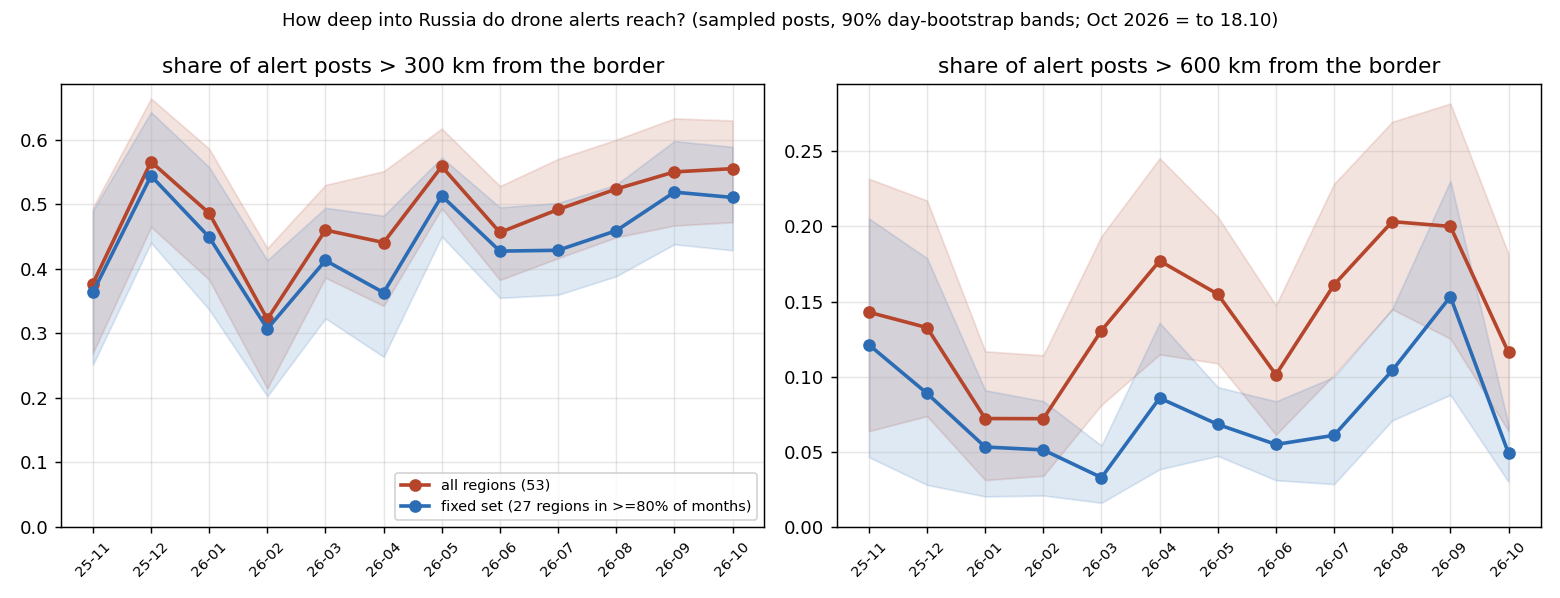
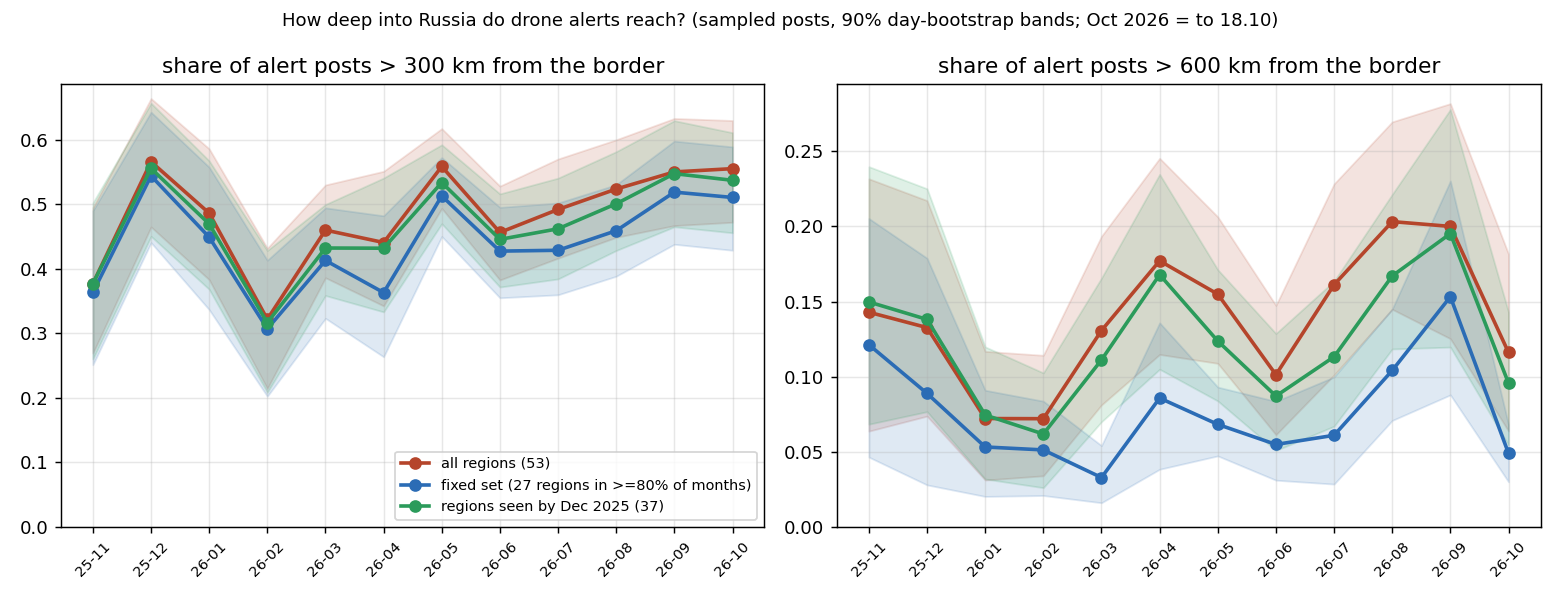
alert-depth: correction - far tail is seasonal, not new regions; add entry-fixed control

Changed region(s): [[0.5538, 0.1806, 0.9846, 0.8127], [0.0308, 0.1806, 0.4923, 0.6622], [0.2462, 0.7525, 0.4923, 0.8729]]

diff --git a/audits/alert-depth-2026-10-19/chart.py b/audits/alert-depth-2026-10-19/chart.py
@@ -9,6 +9,9 @@ mon = collections.defaultdict(set)
 for ts, d, reg in R: mon[ts[:7]].add(reg)
 cnt = collections.Counter(r for v in mon.values() for r in v)
 keep = {r for r, c in cnt.items() if c >= 0.8 * len(mon)}
+pres = collections.defaultdict(set)
+for ts, d, reg in R: pres[reg].add(ts[:7])
+early = {r for r, v in pres.items() if r is not None and min(v) <= '2025-12'}   # fixed by entry, not persistence (see RESULT.md, correction)
 def series(rows, thr, B=1000, seed=1):
     rng = random.Random(seed); bym = collections.defaultdict(lambda: collections.defaultdict(list))
     for ts, d, reg in rows: bym[ts[:7]][ts[:10]].append(d > thr)
@@ -23,7 +26,8 @@ def series(rows, thr, B=1000, seed=1):
 res = {}
 fig, axes = plt.subplots(1, 2, figsize=(12, 4.6), sharey=False)
 for ax, thr in zip(axes, (300, 600)):
-    for lab, rows, c in ((f'all regions ({len(cnt)})', R, '#b5452b'), (f'fixed set ({len(keep)} regions in >=80% of months)', [x for x in R if x[2] in keep], '#2b6cb5')):
+    for lab, rows, c in ((f'all regions ({len(cnt)})', R, '#b5452b'), (f'fixed set ({len(keep)} regions in >=80% of months)', [x for x in R if x[2] in keep], '#2b6cb5'),
+                       (f'regions seen by Dec 2025 ({len(early)})', [x for x in R if x[2] in early], '#2b9b5b')):
         s = series(rows, thr); res[f'{thr}|{lab}'] = s
         xs = range(len(s)); ax.plot(xs, [x[1] for x in s], 'o-', color=c, label=lab, lw=2)
         ax.fill_between(xs, [x[2] for x in s], [x[3] for x in s], color=c, alpha=.15)

diff --git a/audits/alert-depth-2026-10-19/RESULT.md b/audits/alert-depth-2026-10-19/RESULT.md
@@ -29,16 +29,26 @@ fixed set: the 27 regions (of 53) that appear in at least 80% of months.
 
 All months with bands: `depth_monthly.json`.
 
+> **Correction (2026-10-19, about an hour after publishing).** Point 2 below said the far tail is "mostly new
+> regions". That is wrong. "Outside the fixed set" means present in fewer than 10 of 12 months, not newly covered:
+> Yaroslavl, Leningrad, Novgorod, Orenburg and most other far regions are already in the sample in Nov-Dec 2025 and
+> come and go month to month. Requiring 80% presence drops exactly the intermittent deep regions the question is
+> about, so for the far tail that control over-corrects. A control fixed by entry instead (the 37 regions seen by
+> Dec 2025, 4,343 of 4,523 posts; green line) tracks the full line closely: beyond 600 km 0.15 in Nov 2025, 0.06 in
+> Feb, 0.20 in Sep, 0.10 in Oct. **Corrected reading: no year-long deepening of the far tail; a winter low, a peak in
+> Aug-Sep 2026, and October back near November's level.** The 300 km drift reading stands. The original text is
+> kept below, struck where wrong.
+
 **What it shows.**
 1. **The 300 km line: a modest rise, but February was the low point, not November.** About half of alert posts
    now come from more than 300 km inside Russia, against a third in Nov 2025 and February 2026. The rise holds on
    the fixed region set, so it is not only new regions entering the feed. But the bands of neighbouring months
    overlap, and December 2025 (0.57) was already as high as today: this is a drift, not a clean trend.
-2. **The far tail (beyond 600 km) is mostly new regions.** Half of the far posts (339 of 658) come from regions
+2. ~~**The far tail (beyond 600 km) is mostly new regions.**~~ (wrong, see the correction above) Half of the far posts (339 of 658) come from regions
    outside the fixed set: Yaroslavl, Leningrad, Novgorod, Chuvashia, Orenburg, Pskov, Bashkortostan, Kirov,
    Chechnya, St Petersburg. On the fixed set the far share stays at 3-10% for most of the year. August-September 2026 is
    the exception on both lines (0.20 all, 0.10-0.15 fixed), and October so far has fallen back (0.12 / 0.05).
-3. **Which reading of the far tail is right, I cannot tell from one channel.** A region that never had alerts and
+3. ~~**Which reading of the far tail is right, I cannot tell from one channel.**~~ (moot: the far regions were covered from the start) A region that never had alerts and
    now does could be deeper reach or wider coverage by the channel. Separating them needs a second, independent
    source per region (official regional alert channels).
 
